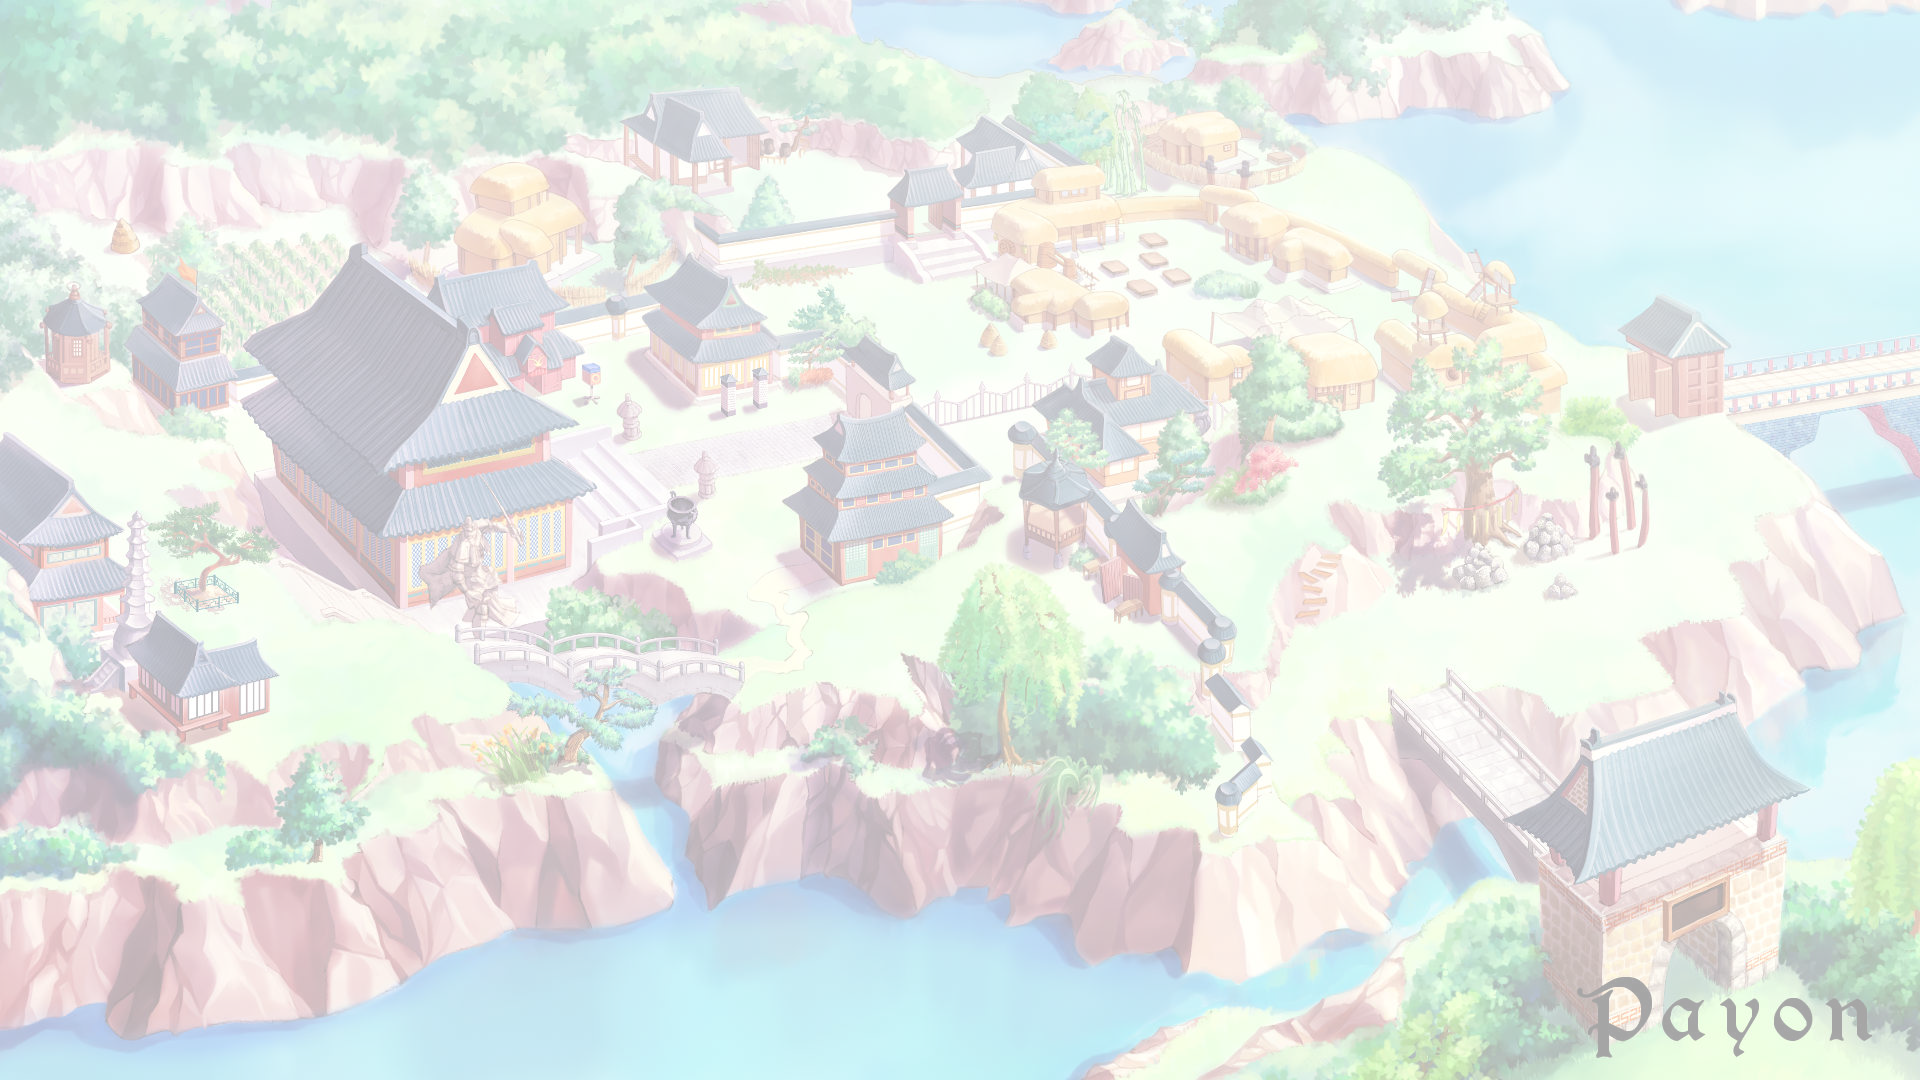
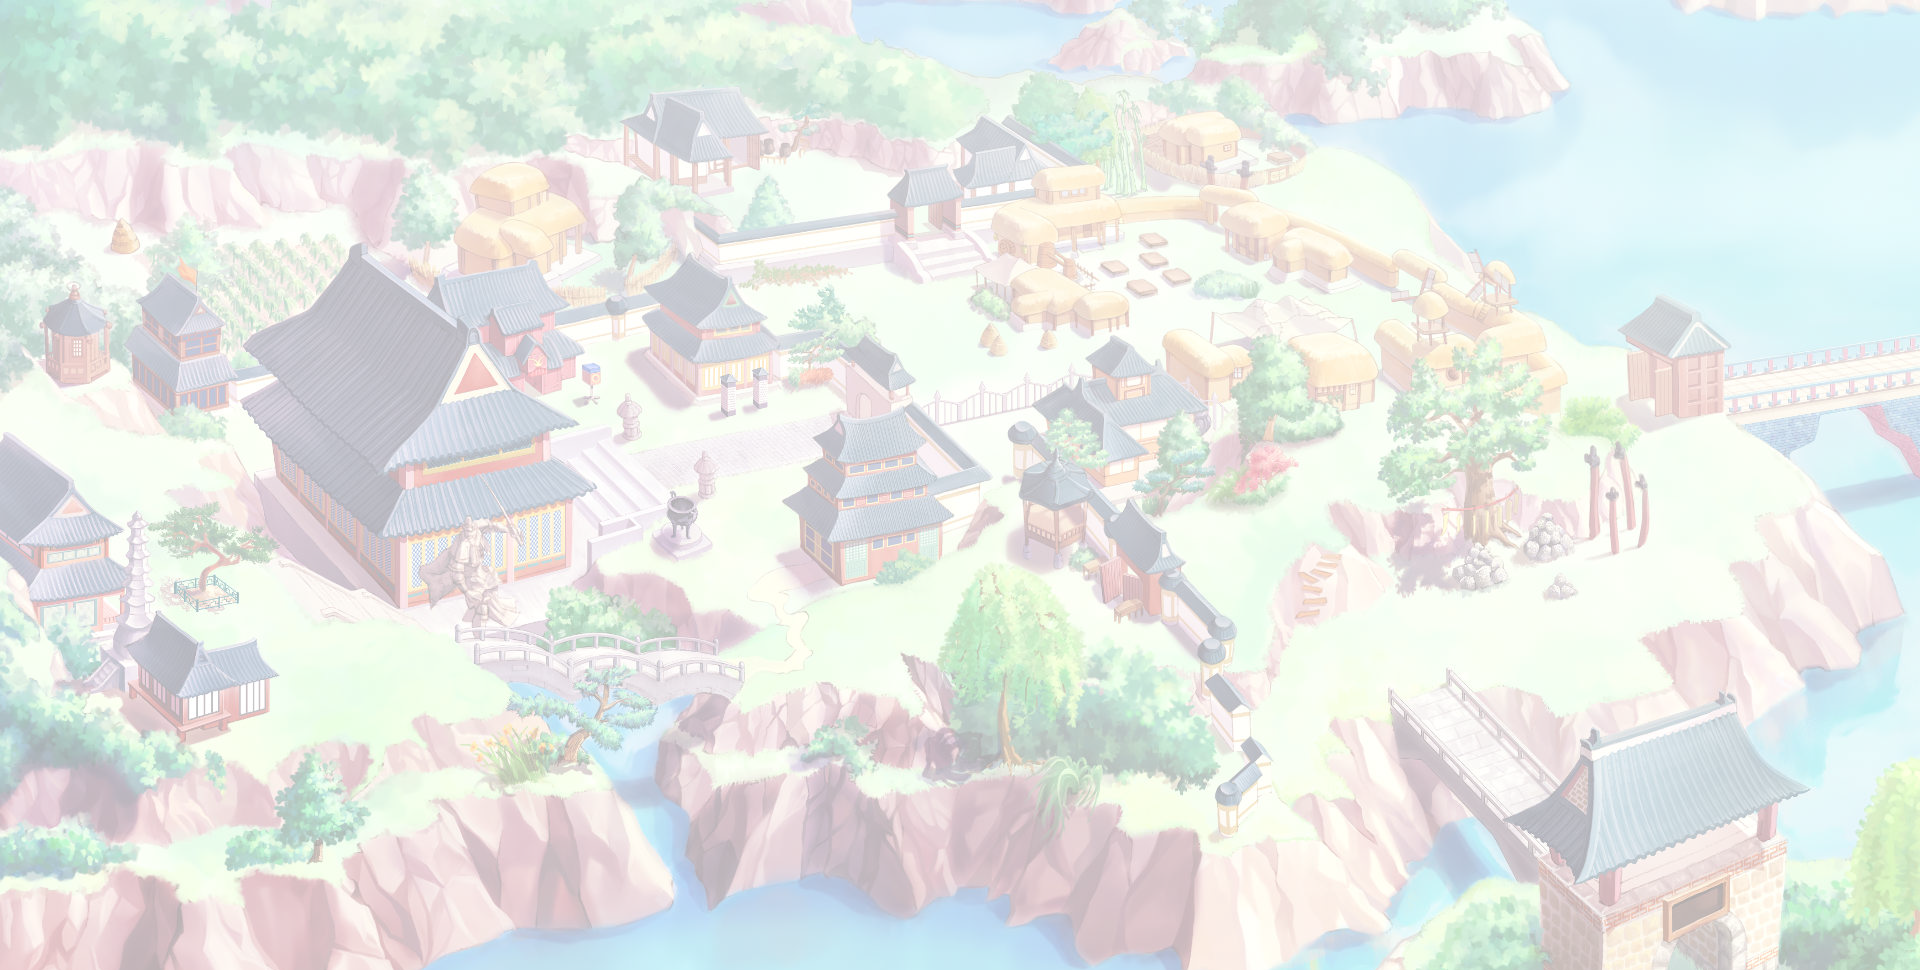
Adicionados imagens aleatórias no topo

diff --git a/app/assets/stylesheets/bulma.scss b/app/assets/stylesheets/bulma.scss
@@ -9,9 +9,6 @@ $tabs-link-active-color: $black;
 }
 
 .main-hero {
-  background:url(/wallpaper1.png) no-repeat;
-  background-size: 100%;
-  background-position-y: 40%;
   .hero-body {
     padding-bottom:40px!important;
     padding-top:20px!important;
